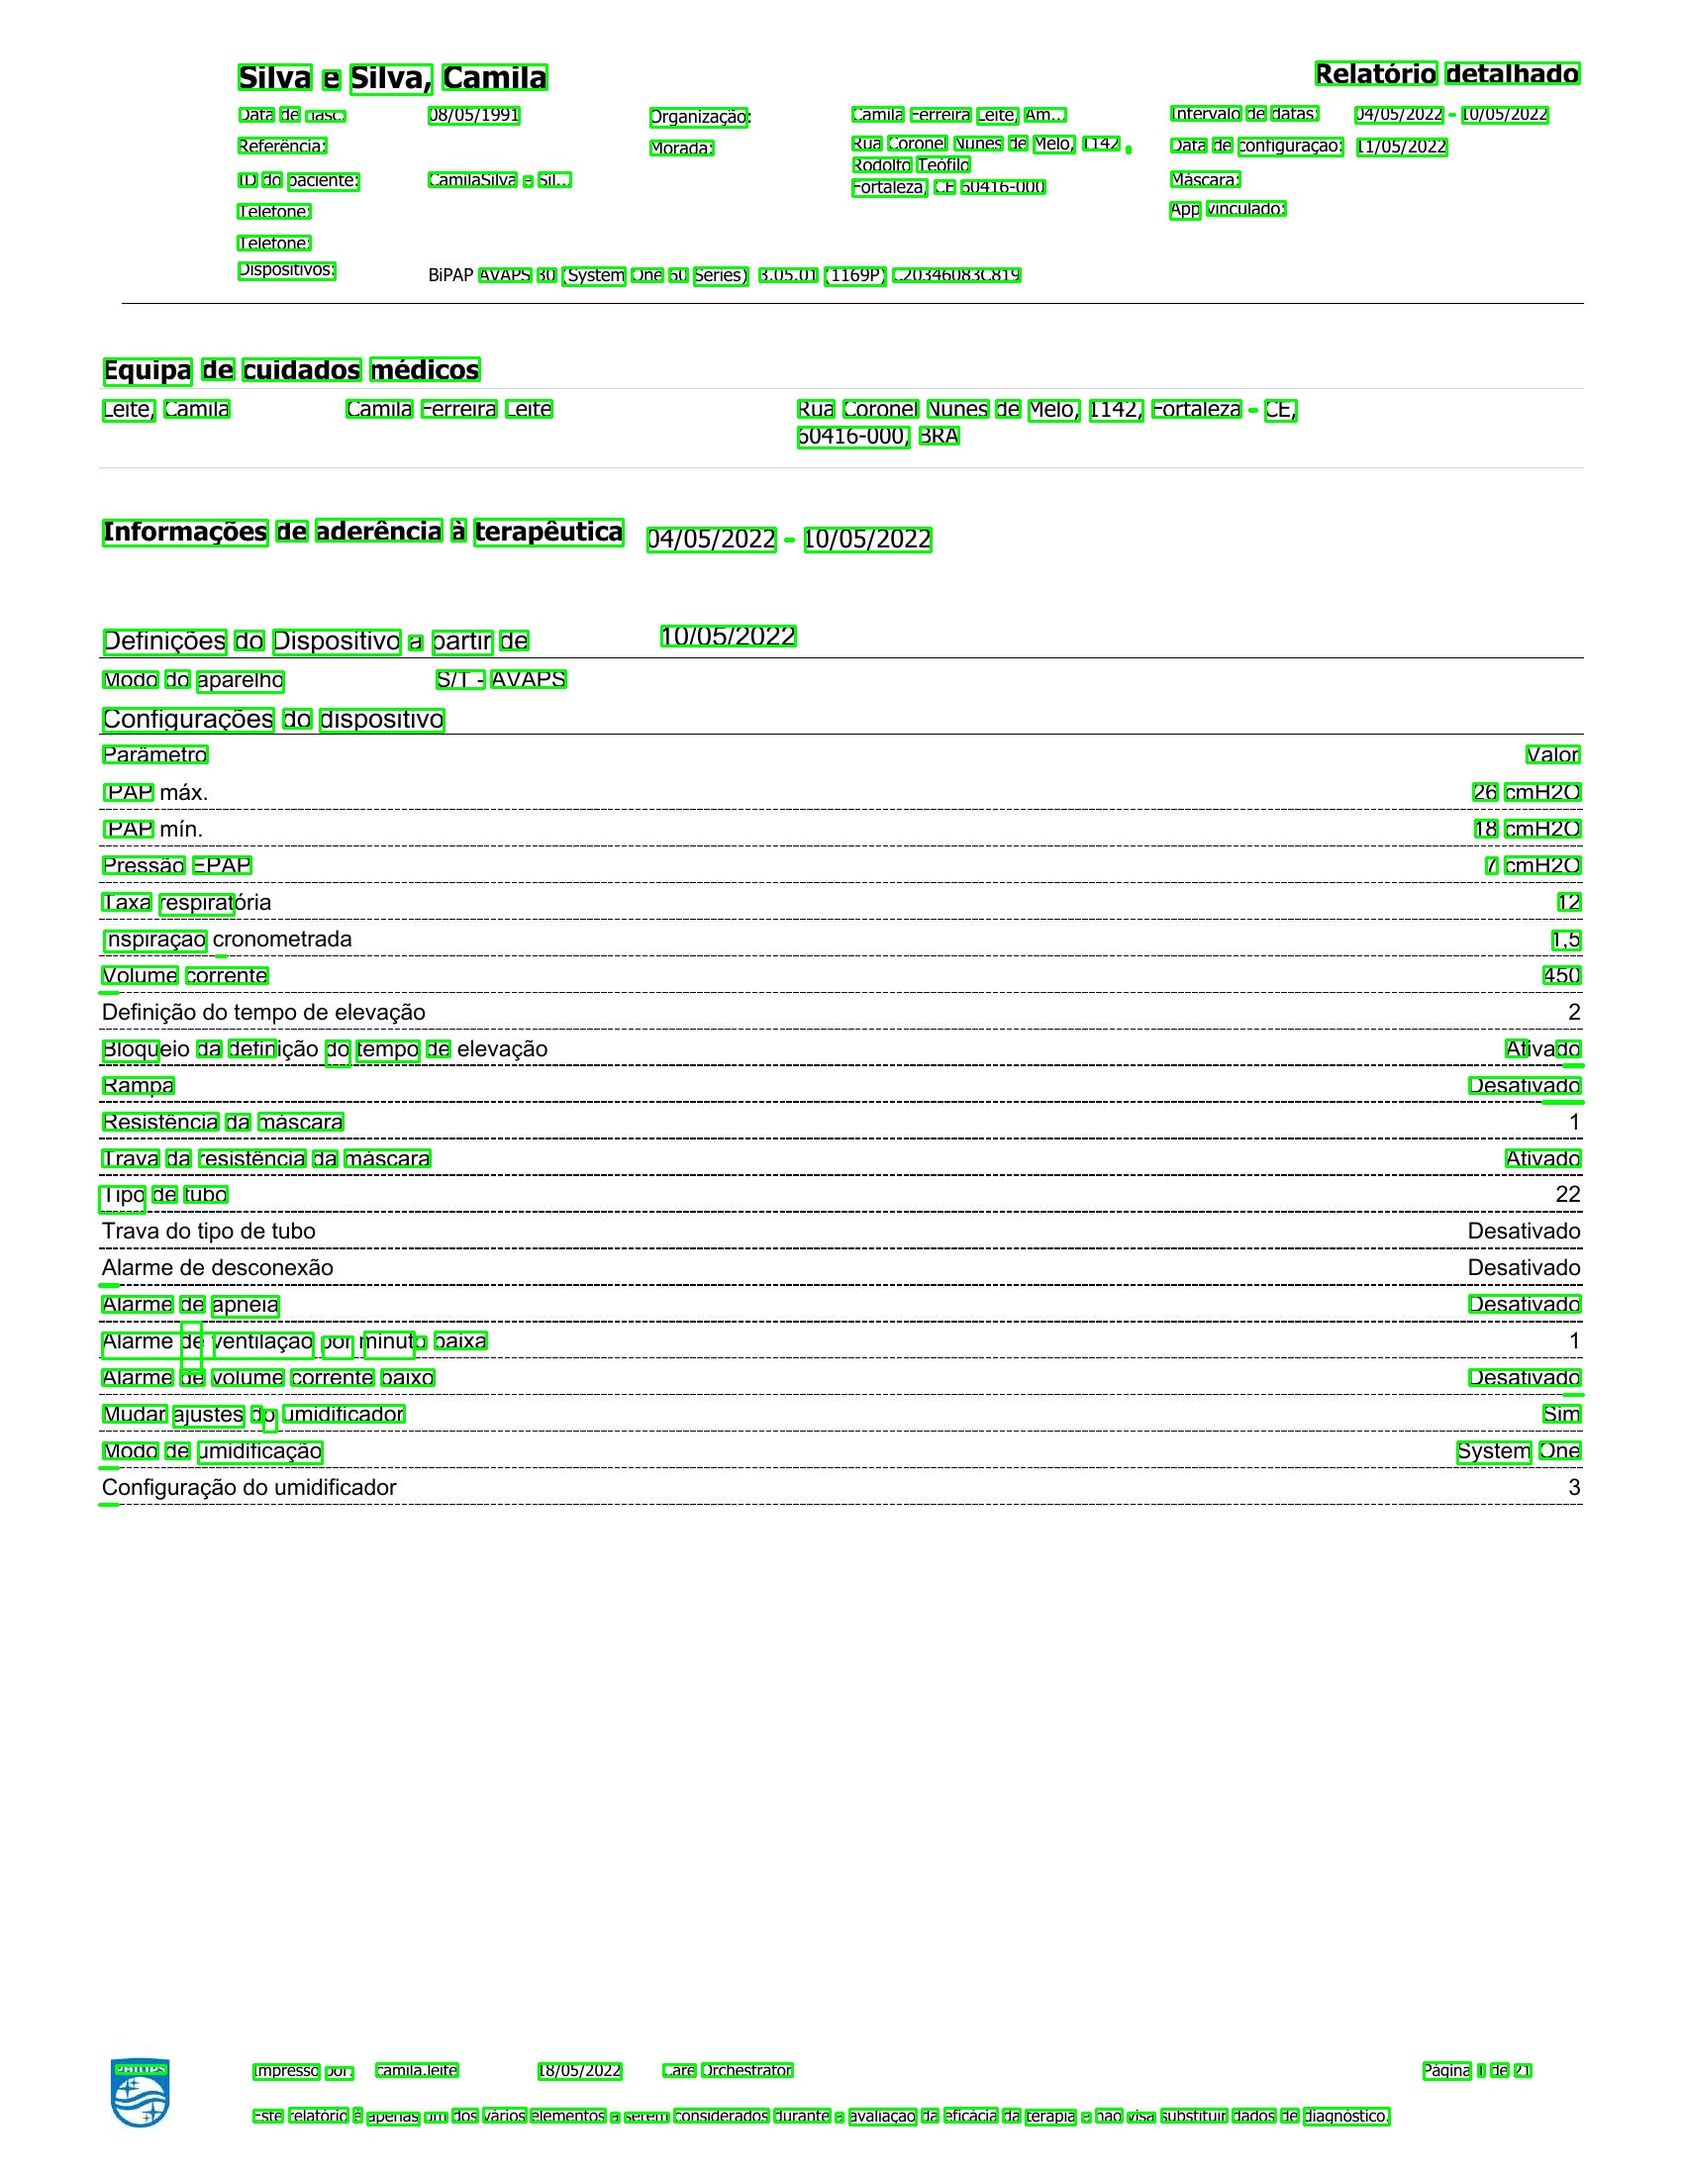
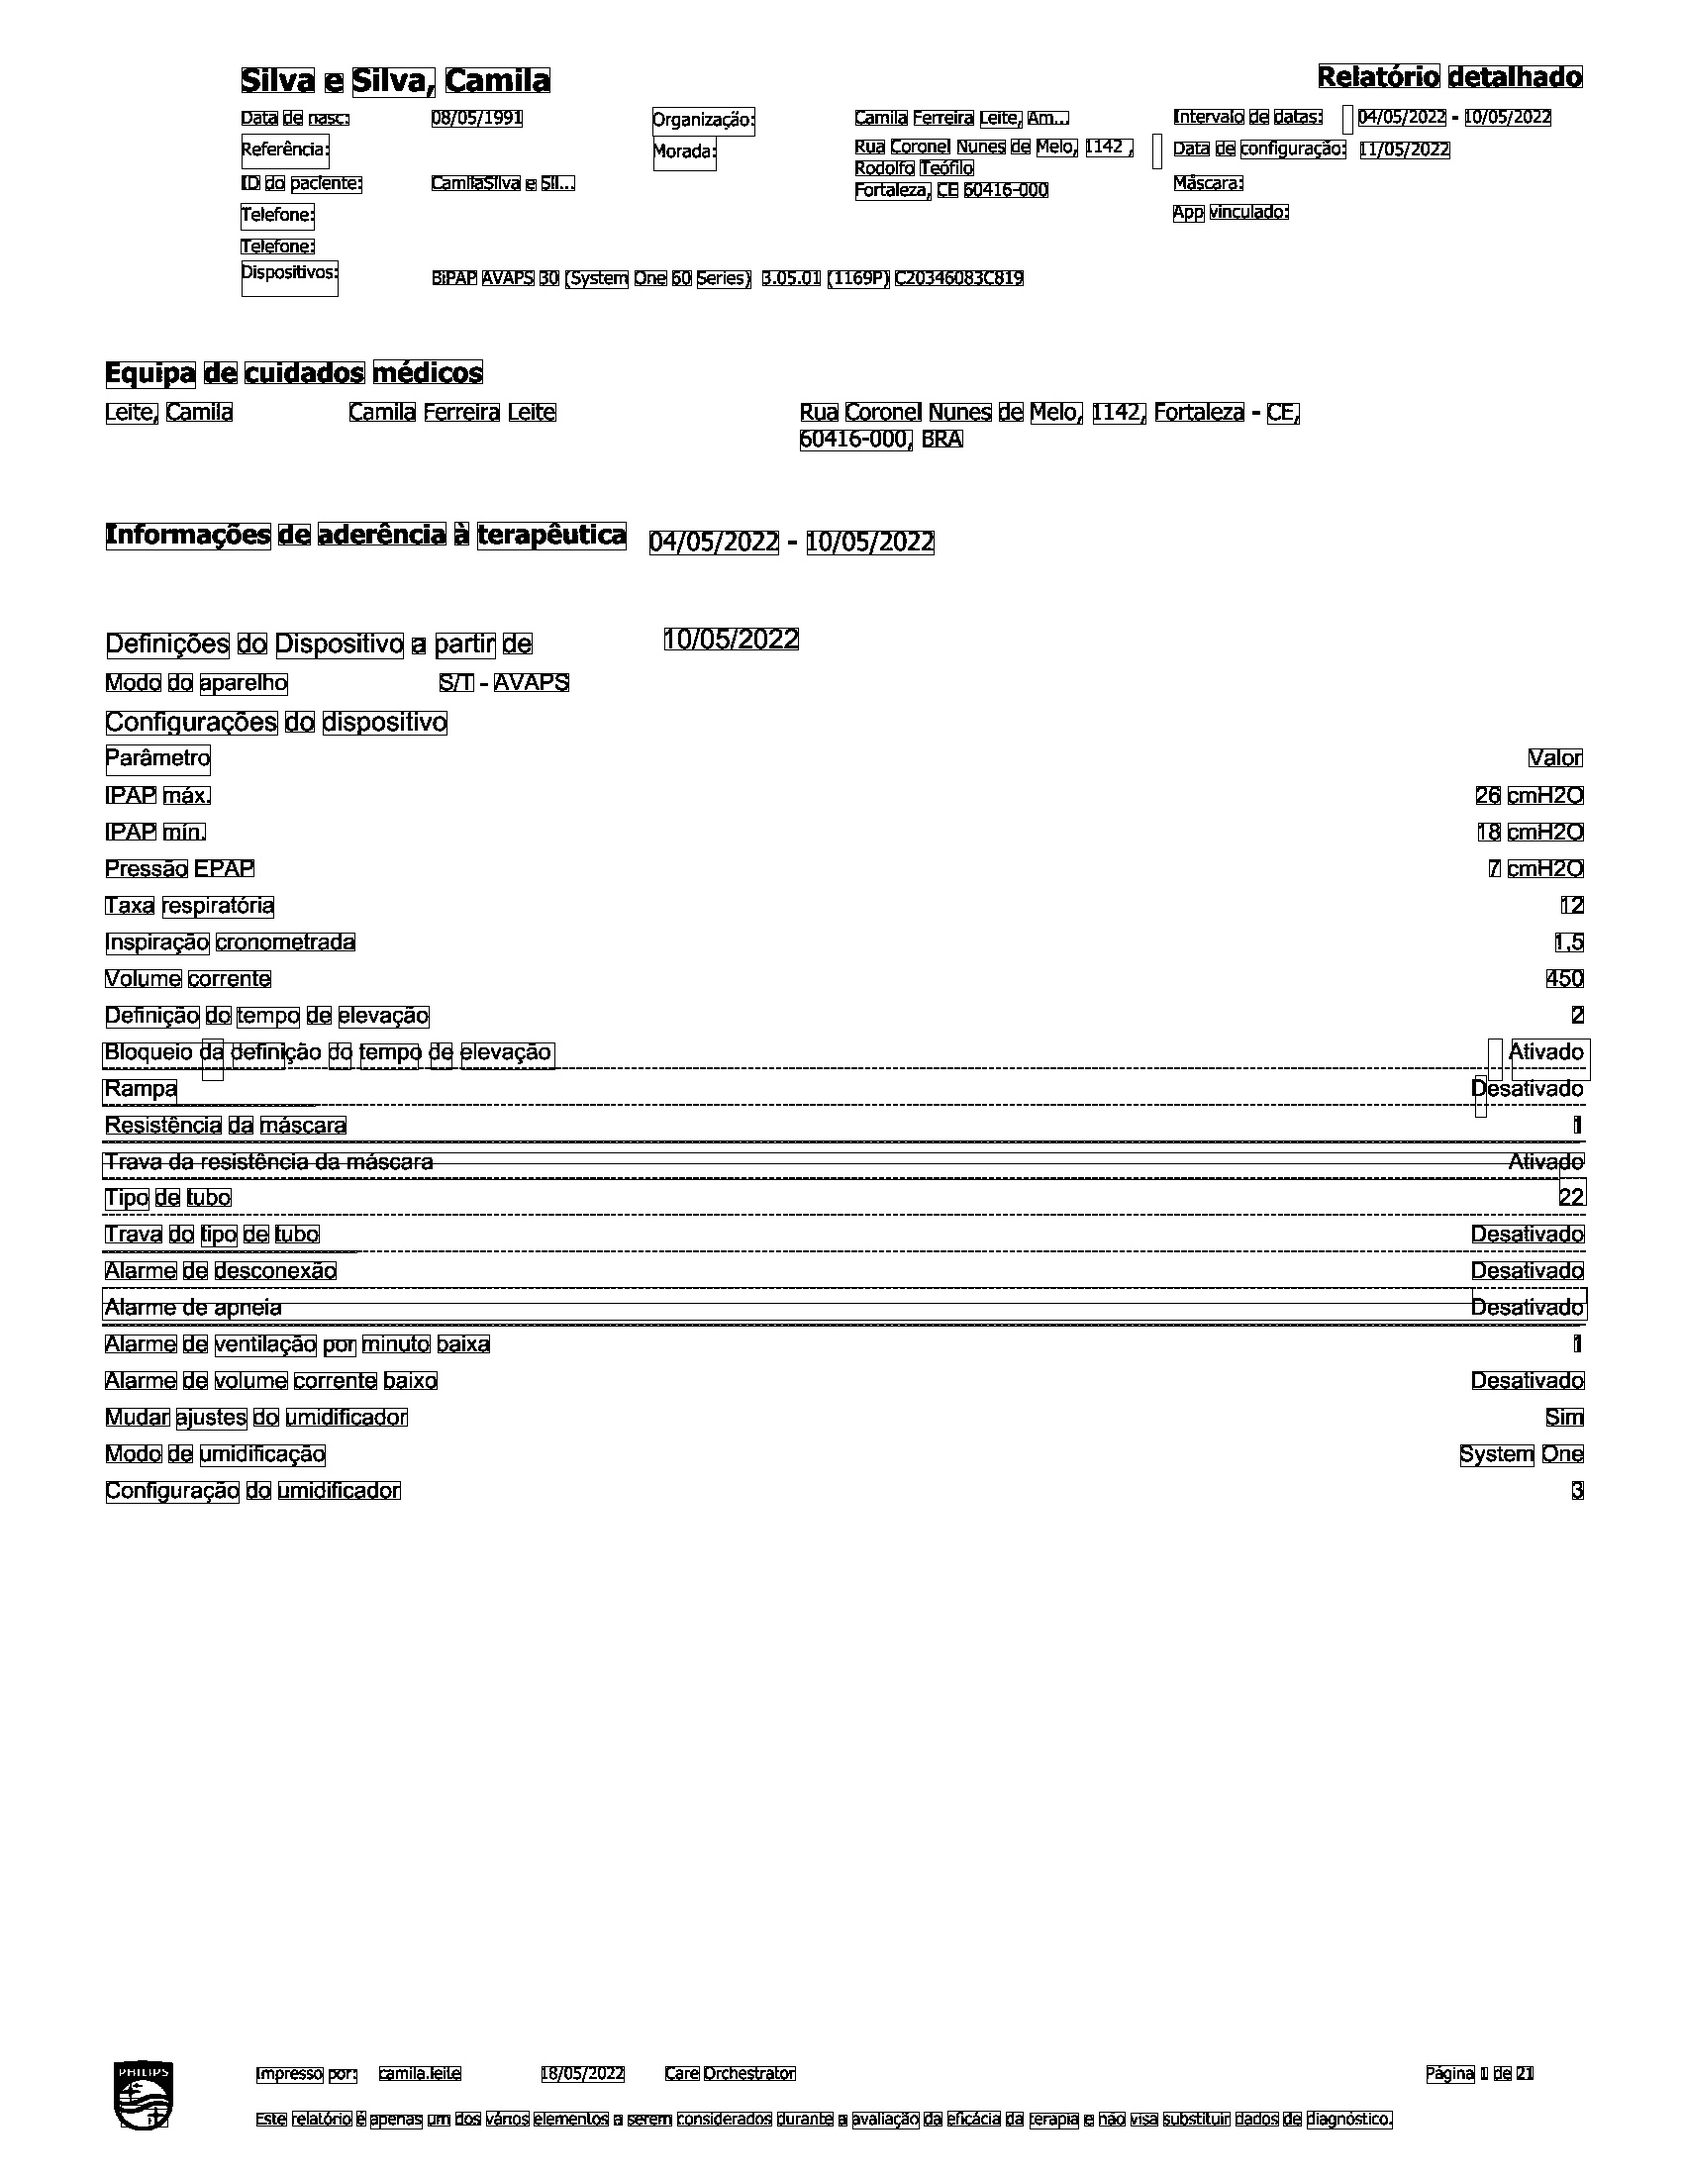
V3 da deteccao

diff --git a/OCR3.py b/OCR3.py
@@ -20,7 +20,7 @@ pytesseract.pytesseract.tesseract_cmd = r"C:\Program Files\Tesseract-OCR\tessera
 # 12    Sparse text with OSD.
 # 13    Raw line. Treat the image as a single text line, bypassing hacks that are Tesseract-specific.
 
-myconfig = r"--psm 11 --oem 3"
+myconfig = r"--psm 3 --oem 3"
 
 invertedImg = cv2.bitwise_not(img)
 cv2.imwrite("imagem_invertida.jpg", invertedImg)
@@ -40,12 +40,12 @@ cv2.imwrite("bw_img.jpg", im_bw)
 def noise_removal(image):
     import numpy as np
 
-    kernel = np.ones((1, 1), np.uint8)
+    kernel = np.ones((2, 2), np.uint8)
     image = cv2.dilate(image, kernel, iterations=1)
-    kernel = np.ones((1, 1), np.uint8)
+    kernel = np.ones((2, 2), np.uint8)
     image = cv2.erode(image, kernel, iterations=1)
     image = cv2.morphologyEx(image, cv2.MORPH_CLOSE, kernel)
-    # image = cv2.medianBlur(image, 3)
+    # image = cv2.medianBlur(image, 1)
     return image
 
 
@@ -57,7 +57,7 @@ def thin_font(image):
     import numpy as np
 
     image = cv2.bitwise_not(image)
-    kernel = np.ones((1, 1), np.uint8)
+    kernel = np.ones((2, 2), np.uint8)
     image = cv2.erode(image, kernel, iterations=1)
     image = cv2.bitwise_not(image)
     return image
@@ -67,7 +67,7 @@ def thick_font(image):
     import numpy as np
 
     image = cv2.bitwise_not(image)
-    kernel = np.ones((1, 1), np.uint8)
+    kernel = np.ones((2, 2), np.uint8)
     image = cv2.dilate(image, kernel, iterations=1)
     image = cv2.bitwise_not(image)
     return image
@@ -76,16 +76,22 @@ def thick_font(image):
 eroded_image = thin_font(no_noise)
 cv2.imwrite("eroded.jpg", eroded_image)
 
-dilated_image = thick_font(no_noise)
+dilated_image = thick_font(eroded_image)
 cv2.imwrite("dilated.jpg", dilated_image)
 
+img = dilated_image
 d = pytesseract.image_to_data(img, output_type=Output.DICT, lang="por", config=myconfig)
+
+# A text file is created and flushed
+file = open("relatorioEmTexto.txt", "w+")
+file.write("")
+file.close()
 
 n_boxes = len(d["text"])
 for i in range(n_boxes):
-    if int(d["conf"][i]) > 50:
+    if int(d["conf"][i]) > 20:
         (x, y, w, h) = (d["left"][i], d["top"][i], d["width"][i], d["height"][i])
-        img = cv2.rectangle(img, (x, y), (x + w, y + h), (0, 255, 0), 2)
+        img = cv2.rectangle(img, (x, y), (x + w, y + h), (0, 255, 0), 1)
         # cv2.putText(
         #     img,
         #     d["text"][i],
@@ -96,5 +102,10 @@ for i in range(n_boxes):
         #     2,
         #     cv2.LINE_AA,
         # )
+
+        file = open("relatorioEmTexto.txt", "a")
+        file.write(d["text"][i])
+        file.write("\n")
+        file.close
 
 cv2.imwrite("imagem_com_deteccao.jpg", img)
